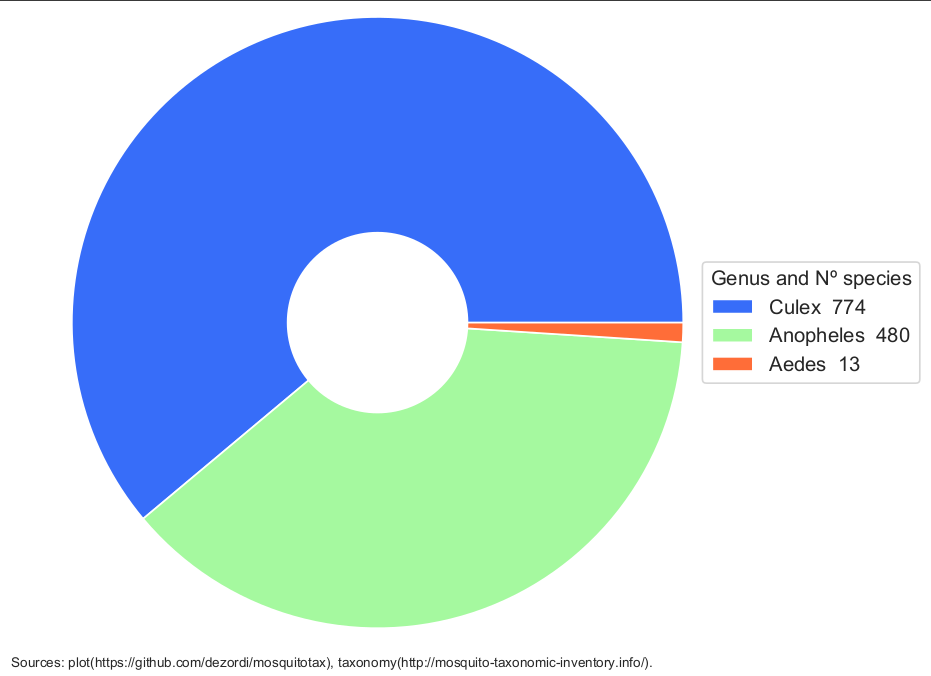
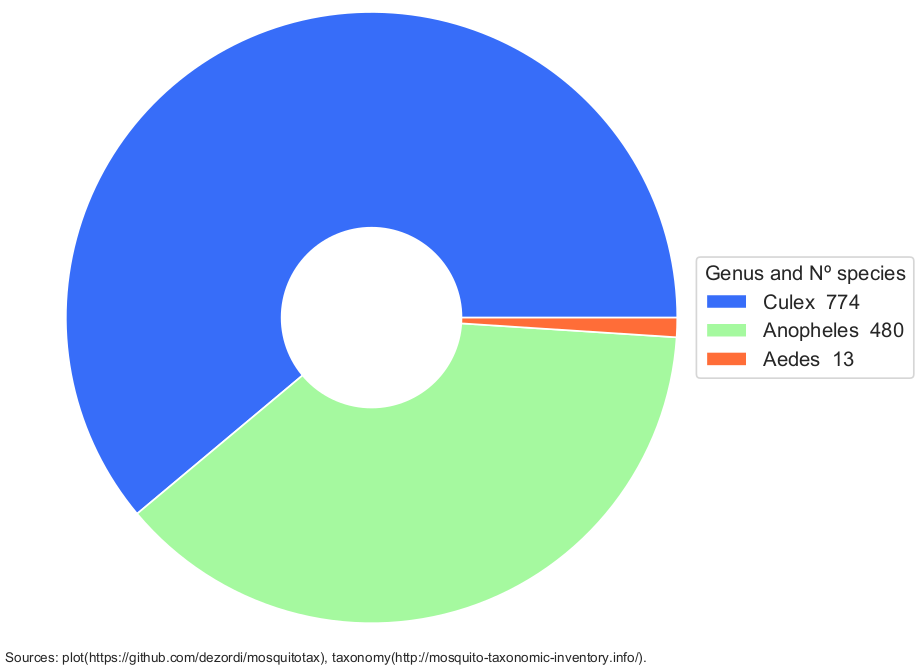
fix English sentences, update donut plot

diff --git a/README.md b/README.md
@@ -1,22 +1,22 @@
 # Mosquito tax
 
-This repository store mosquito information about taxonomy 
+This repository stores taxonomy information about mosquitoes. The source used to construct table and plots comes from [Mosquito Taxonomic Inventory ](http://mosquito-taxonomic-inventory.info/valid-species-list).
 
 ## Dependencies
 
 This script was build on python 3.6.5+ and have these dependencies:
 
-- [pandas](https://pandas.pydata.org/)
-- [numpy](https://numpy.org/)
-- [argparse](https://docs.python.org/3/library/argparse.html)
-- [seaborn](https://seaborn.pydata.org/)
-- [matplotlib](https://matplotlib.org/)
+- [pandas](https://pandas.pydata.org/);
+- [numpy](https://numpy.org/);
+- [argparse](https://docs.python.org/3/library/argparse.html);
+- [seaborn](https://seaborn.pydata.org/);
+- [matplotlib](https://matplotlib.org/);
 
 
 
 ## Recomended lectures
-- [Mosquito Taxonomic Inventory ](http://mosquito-taxonomic-inventory.info/valid-species-list): To understand the criteria involved in this taxonomy structure
-- [Recomende liteature about mosquito taxonomy ](http://mosquito-taxonomic-inventory.info/biblio): To keep up to date with this field.
+- [Mosquito Taxonomic Inventory ](http://mosquito-taxonomic-inventory.info/valid-species-list): To understand the criteria involved in this taxonomy structure.
+- [Recomende literature about mosquito taxonomy ](http://mosquito-taxonomic-inventory.info/biblio): To keep up to date with this field.
 - [Color palletes of seaborn ](https://medium.com/@morganjonesartist/color-guide-to-seaborn-palettes-da849406d44f): To pass with -cm argument.
 
 
@@ -39,7 +39,7 @@ This script was build on python 3.6.5+ and have these dependencies:
 
 
 ## Some considerations
-If you use one of this plots, or the tsv table for some poupose, please put the correct source: plot(https://github.com/dezordi/mosquitotax), taxonomy(http://mosquito-taxonomic-inventory.info/).
+If you use one of these plots, or the tsv table for some pourpose, please put the correct source: plot(https://github.com/dezordi/mosquitotax), taxonomy(http://mosquito-taxonomic-inventory.info/).
 
 All data used in these plots are recovered from [MTI](http://mosquito-taxonomic-inventory.info/sites/mosquito-taxonomic-inventory.info/files/Valid%20Species%20List_77.pdf).
 
